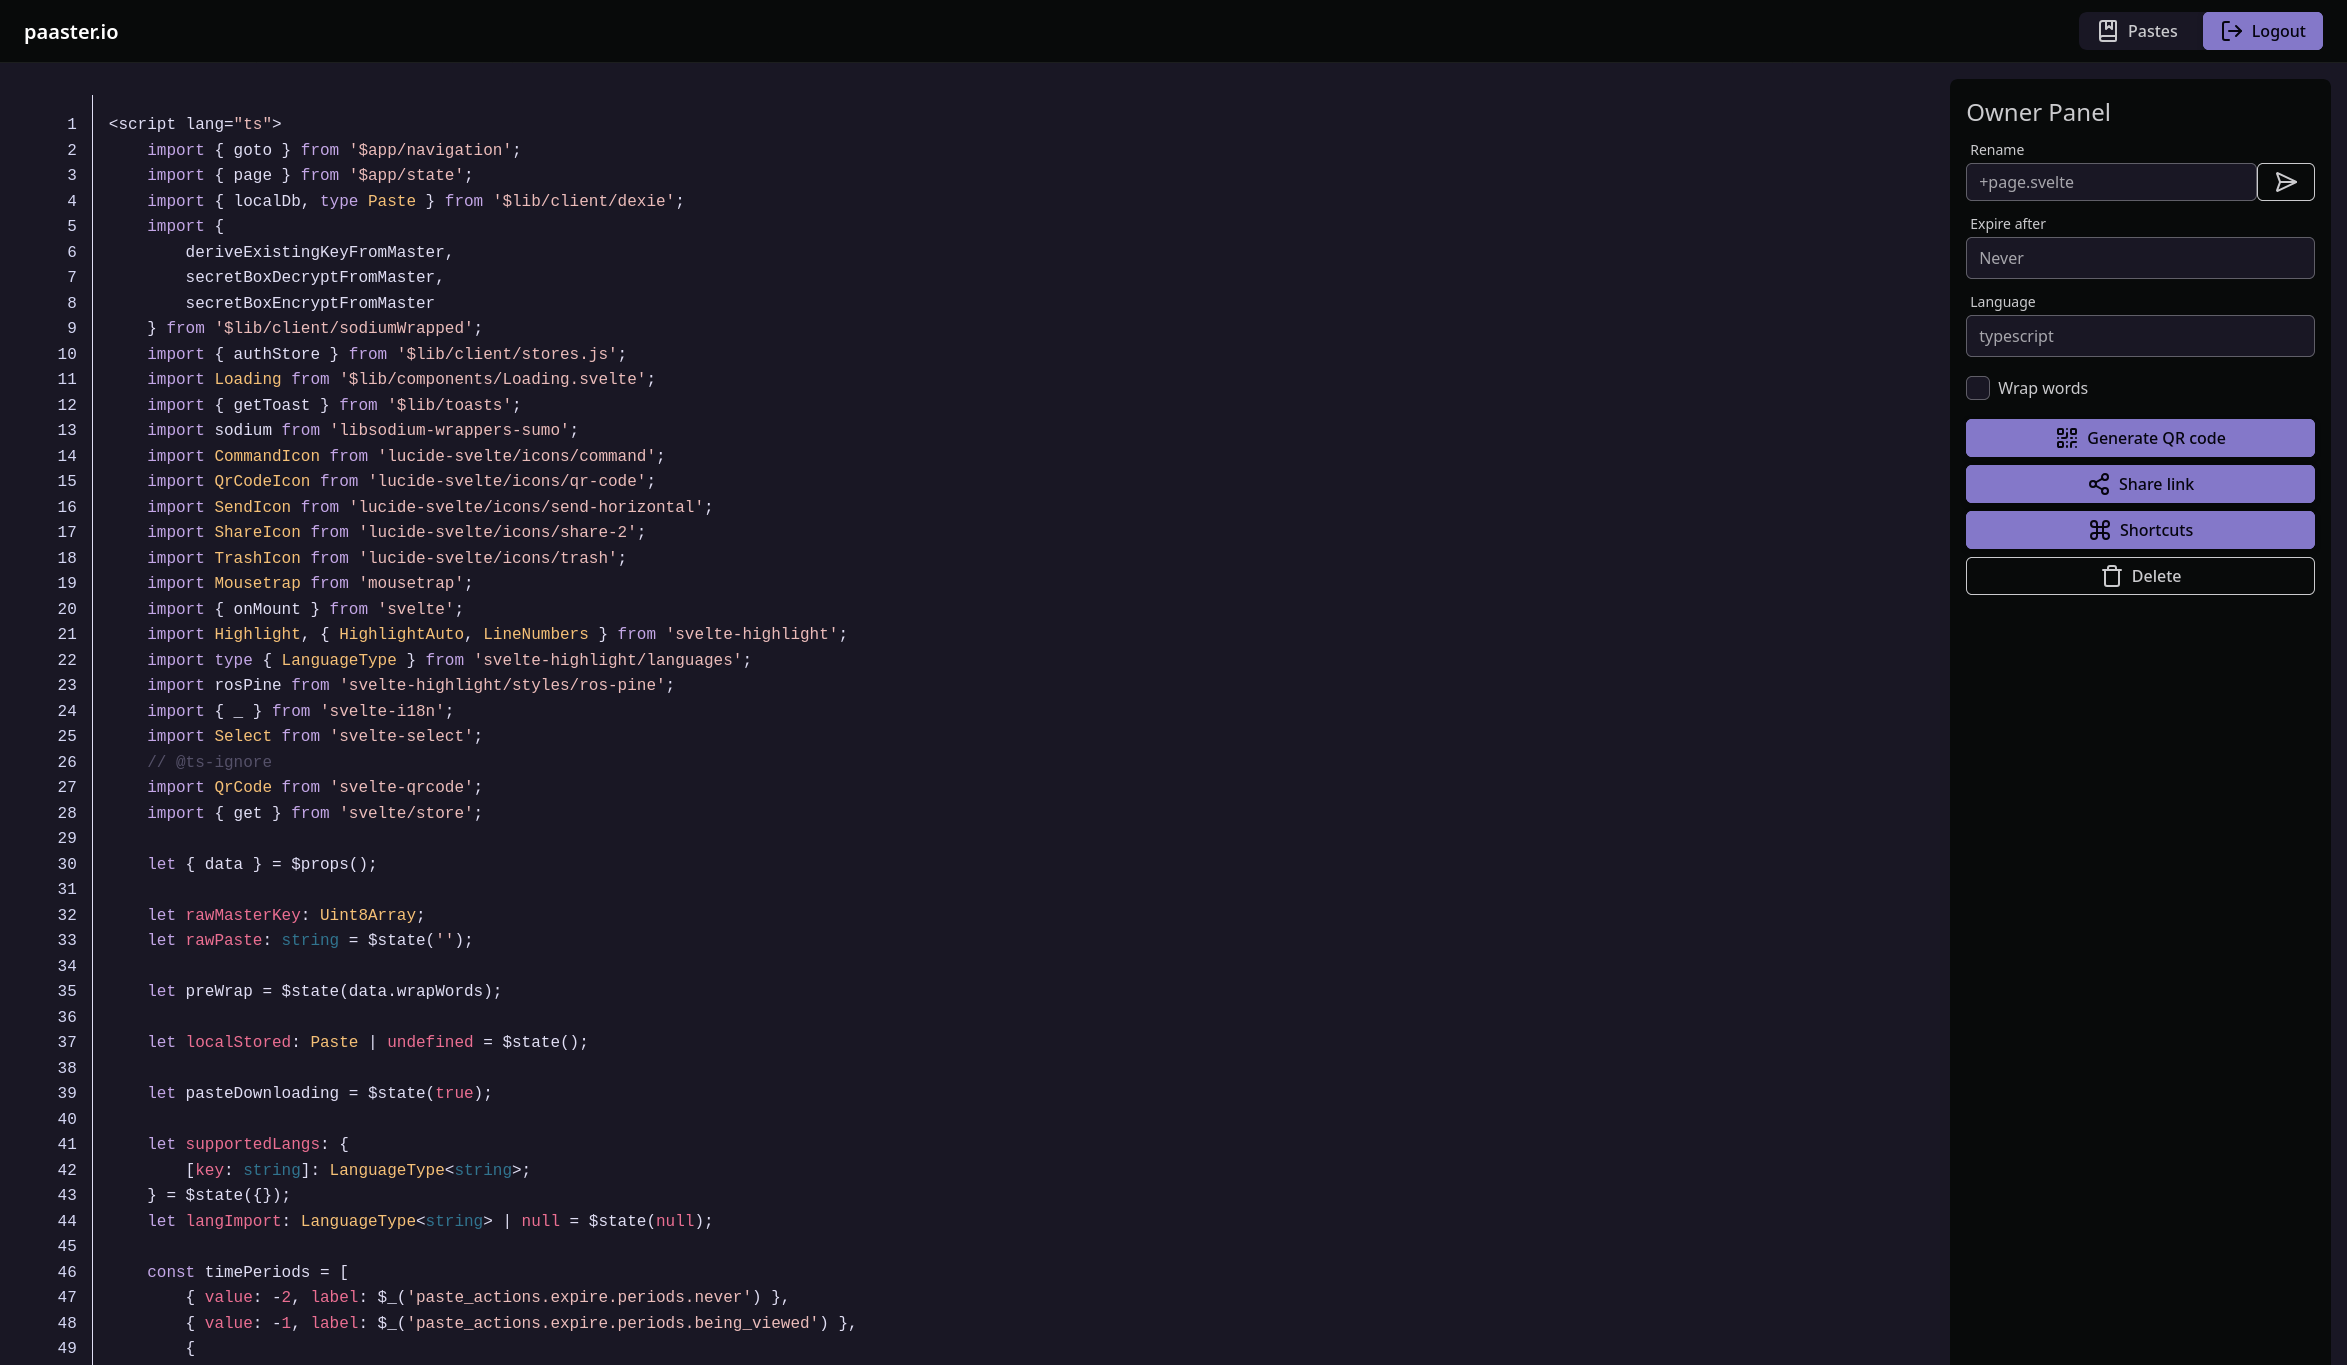
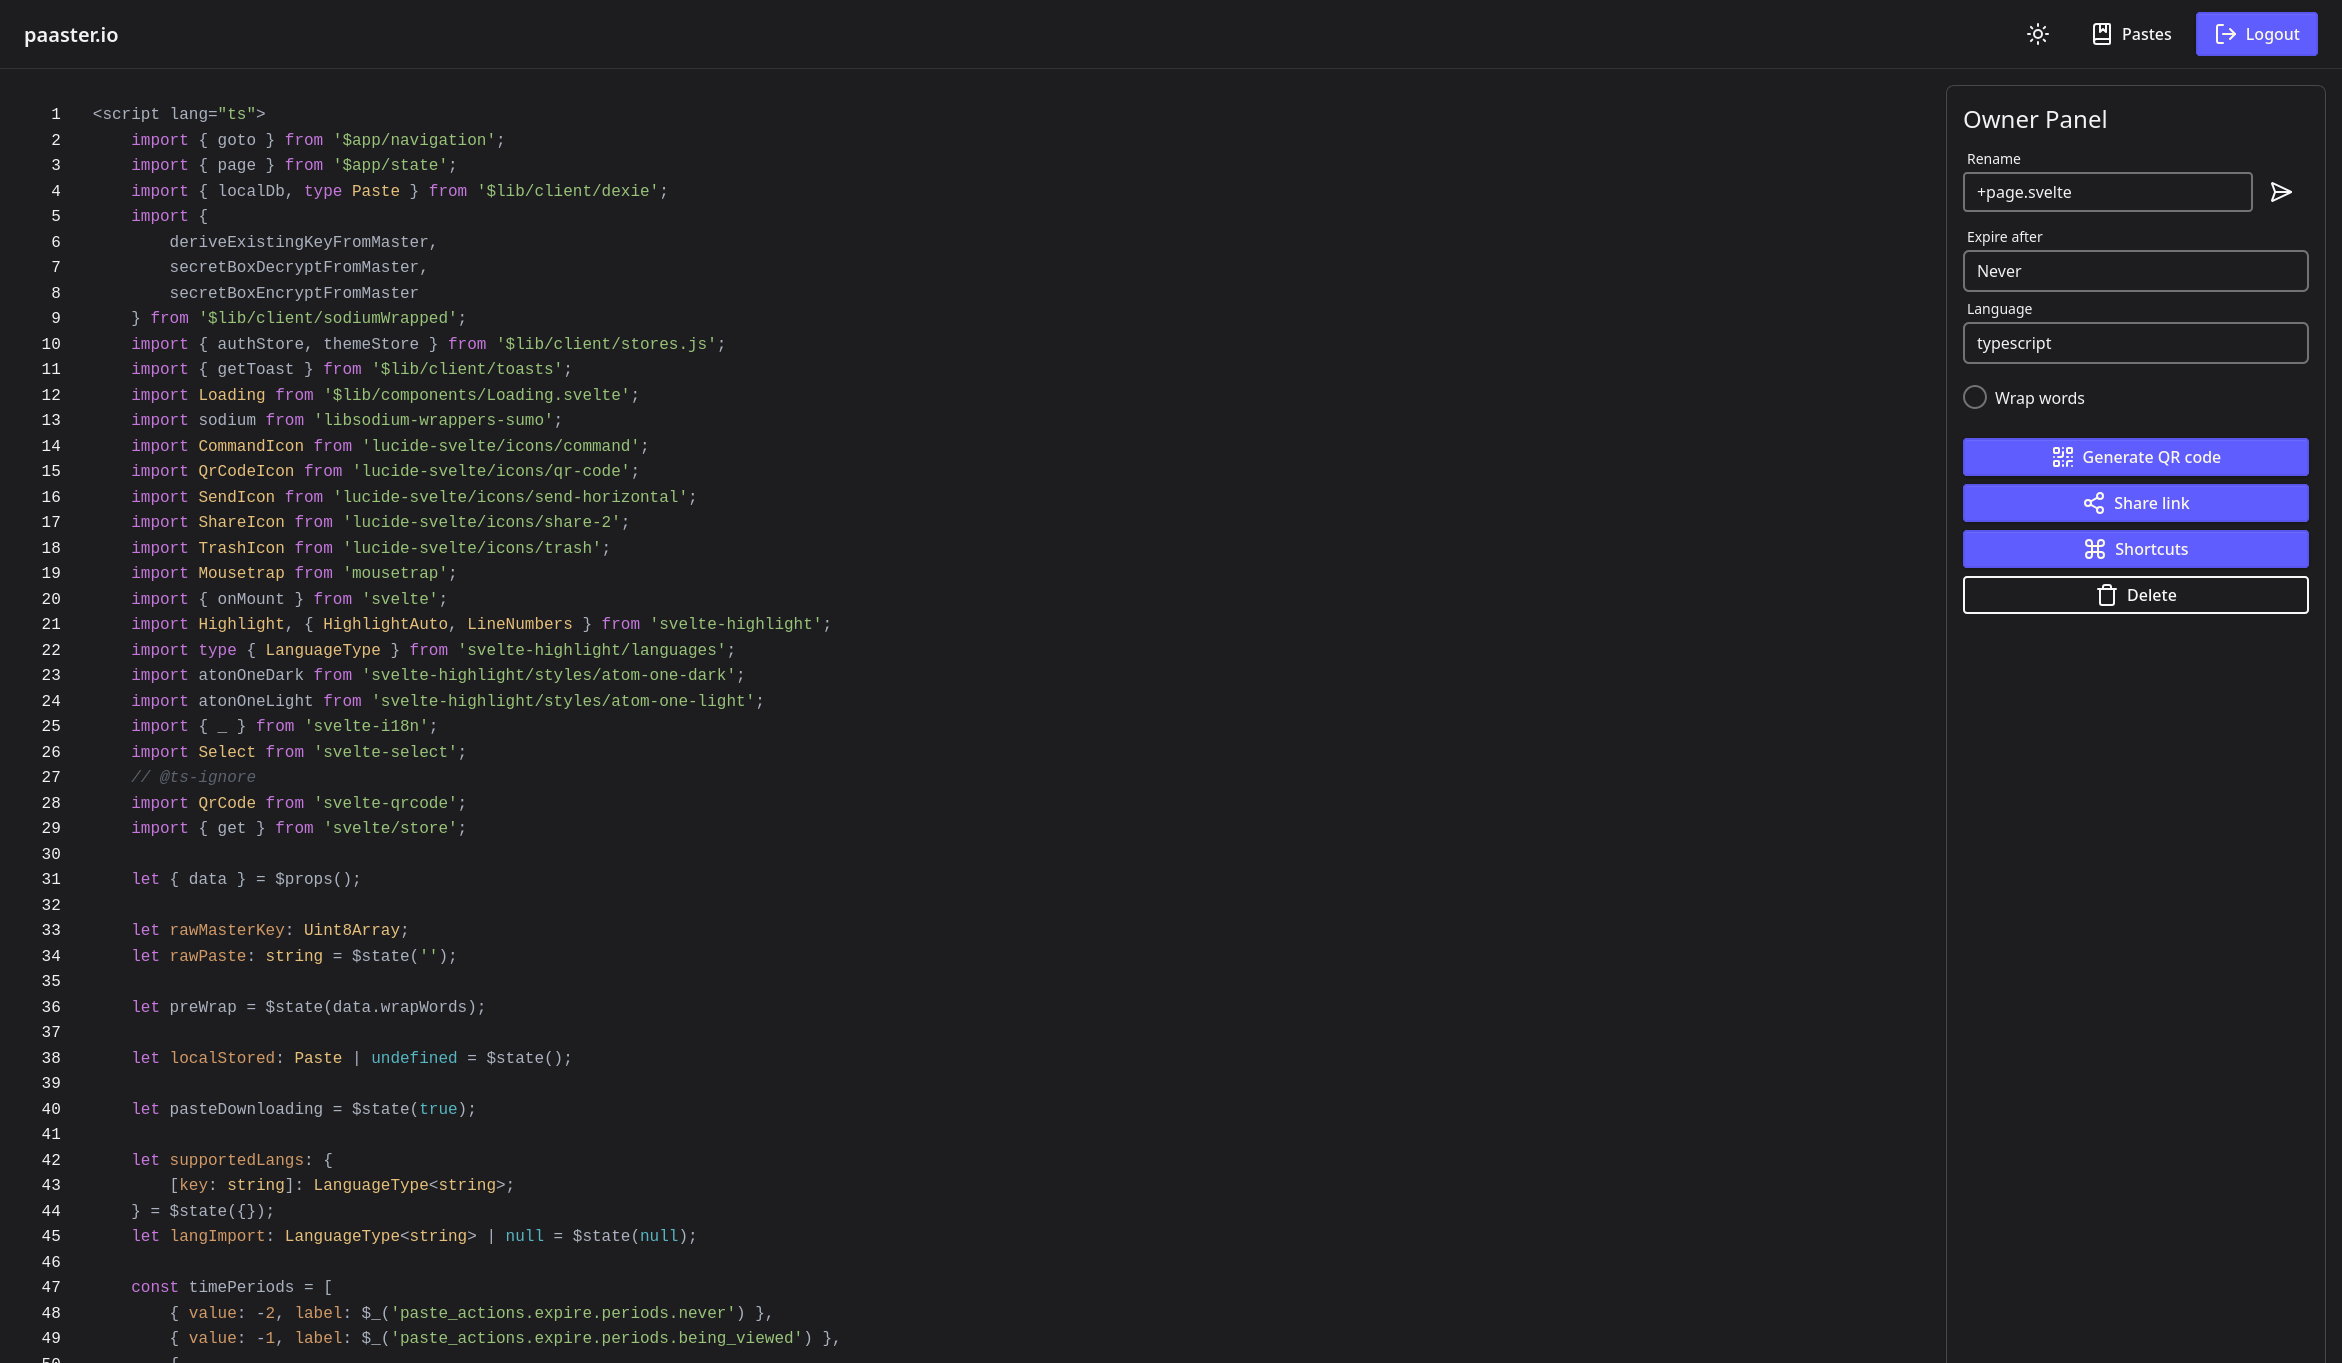
Update preview

diff --git a/paaster/src/routes/+layout.svelte b/paaster/src/routes/+layout.svelte
@@ -2,8 +2,10 @@
 	import BookMarkedIcon from 'lucide-svelte/icons/book-marked';
 	import LoginIcon from 'lucide-svelte/icons/log-in';
 	import LogoutIcon from 'lucide-svelte/icons/log-out';
+	import MenuIcon from 'lucide-svelte/icons/menu';
 	import MoonIcon from 'lucide-svelte/icons/moon';
 	import SunIcon from 'lucide-svelte/icons/sun';
+	import XIcon from 'lucide-svelte/icons/x';
 	import { _ } from 'svelte-i18n';
 	import { themeChange } from 'theme-change';
 
@@ -75,8 +77,8 @@
 						aria-controls="default-navbar-collapse"
 						aria-label="Toggle navigation"
 					>
-						<span class="icon-[tabler--menu-2] collapse-open:hidden size-6"></span>
-						<span class="icon-[tabler--x] collapse-open:block hidden size-6"></span>
+						<span class="collapse-open:hidden size-6"><MenuIcon /></span>
+						<span class="collapse-open:block hidden size-6"><XIcon /></span>
 					</button>
 				</div>
 			</div>
@@ -99,7 +101,7 @@
 					</label>
 				</li>
 				<li>
-					<a href="/pastes" class="btn btn-text h-full"><BookMarkedIcon /></a>
+					<a href="/pastes" class="btn btn-text h-full"><BookMarkedIcon /> {$_('saved_pastes')}</a>
 				</li>
 				<li>
 					{#if $authStore}
@@ -115,4 +117,18 @@
 	</div>
 </nav>
 
-{@render children?.()}
+<div class="flex min-h-screen flex-col">
+	<div class="flex-grow">
+		{@render children?.()}
+	</div>
+
+	<footer class="footer mt-auto items-center px-6 py-4">
+		<aside class="grid-flow-col items-center">
+			<p><a class="link link-hover font-medium" href="/">Paaster</a></p>
+		</aside>
+		<nav class="text-base-content grid-flow-col gap-4 md:place-self-center md:justify-self-end">
+			<a class="link link-hover" href="/terms-of-service">Terms of service</a>
+			<a class="link link-hover" href="/privacy-policy">Privacy Policy</a>
+		</nav>
+	</footer>
+</div>

diff --git a/paaster/src/routes/[pasteId]/+page.svelte b/paaster/src/routes/[pasteId]/+page.svelte
@@ -415,7 +415,7 @@
 				<h1 class="modal-title">{$_('paste_actions.qr_code.model.header')}</h1>
 			</div>
 			<div class="modal-body">
-				<QrCode value={page.url.href} color="#8478c9" background="#191724" size={540} />
+				<QrCode value={page.url.href} color="#fff" background="transparent" size={540} />
 			</div>
 		</div>
 	</div>

diff --git a/paaster/src/app.css b/paaster/src/app.css
@@ -13,6 +13,10 @@
     background-color: transparent !important;
 }
 
+textarea {
+    resize: none;
+}
+
 textarea::placeholder {
     font-size: 1.3em;
 }
